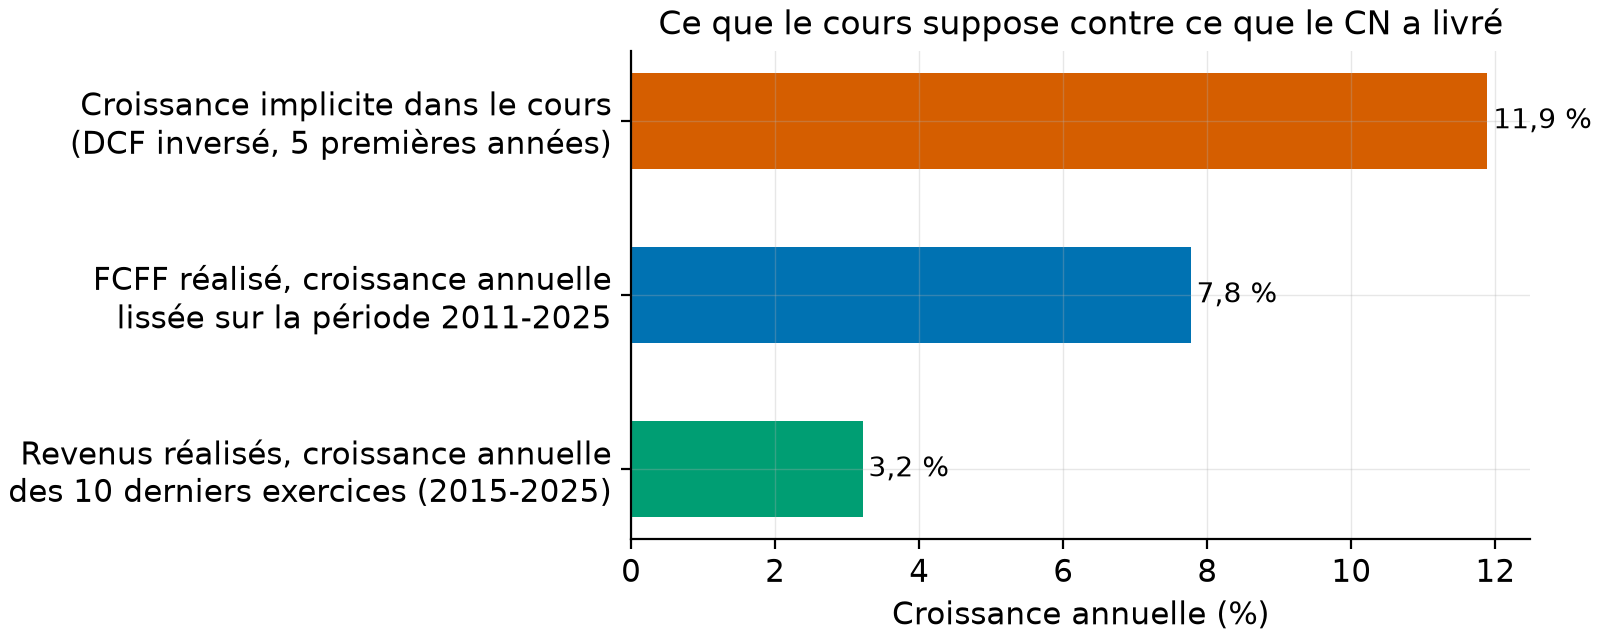
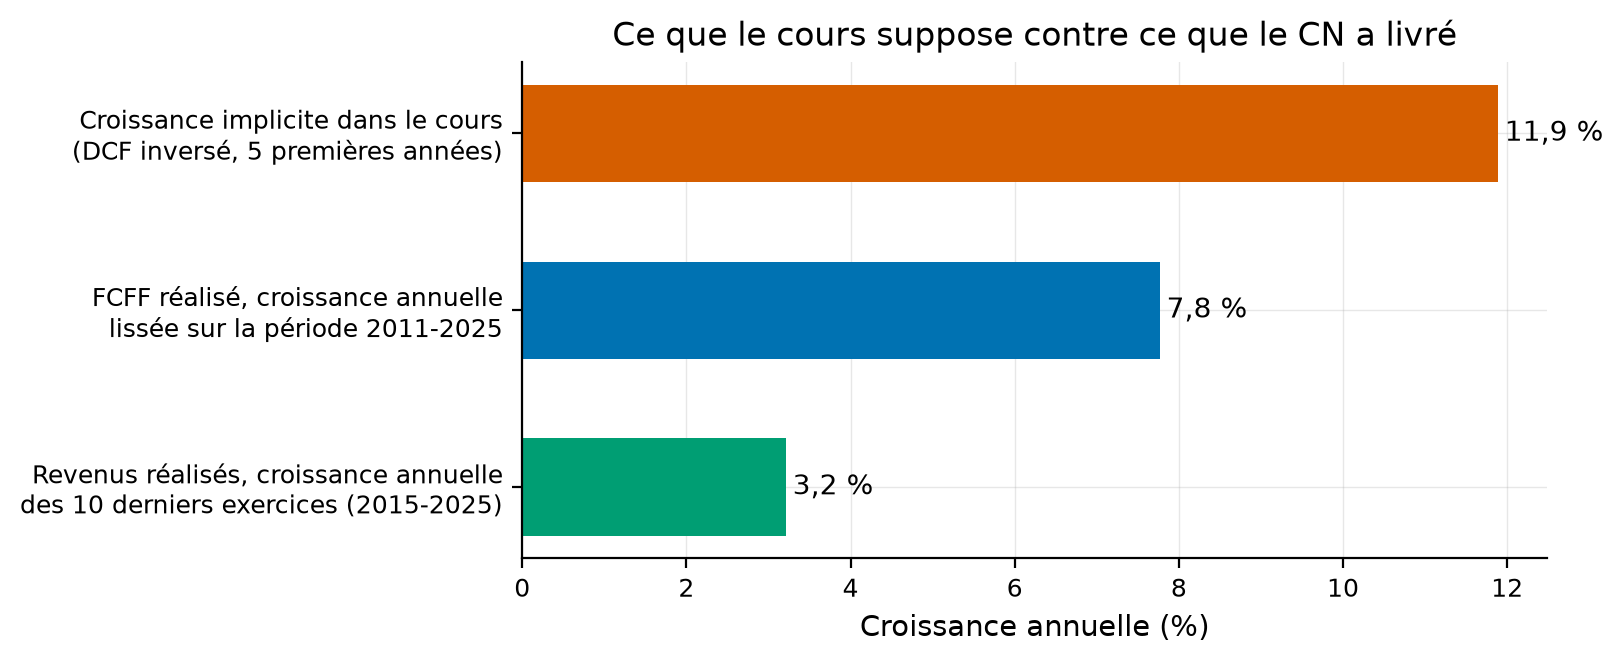
Consommer la feuille de style partagée au lieu de recopier la palette
La palette Okabe-Ito et les réglages de figure étaient recopiés à l'identique dans
chaque dépôt du portefeuille. Une correction de graisse de trait devait donc être faite
une fois par dépôt, et ne l'était jamais.

Le module de figures appelle désormais gv-fintools 0.2.1. Le nom public de la fonction
de réglage ne change pas, si bien qu'aucun appelant n'est touché. Les figures sont
régénérées avec le nouveau style, qui ajoute l'embarquement des polices dans les PDF :
le texte d'une figure reste sélectionnable et cherchable dans le rapport.

diff --git a/src/vlab/report.py b/src/vlab/report.py
@@ -11,25 +11,18 @@ from pathlib import Path
 
 import matplotlib.pyplot as plt
 import pandas as pd
+from gvf.style import OKABE_ITO, appliquer, formateur  # noqa: F401
 
 from vlab.model import Hypotheses, fcff_path
 
-OKABE_ITO = ["#0072B2", "#E69F00", "#009E73", "#D55E00", "#CC79A7", "#56B4E9", "#F0E442", "#000000"]
+# La palette et les réglages viennent de la couche partagée du portefeuille : les mêmes
+# couleurs et la même virgule décimale dans tous les dépôts, corrigées à un seul endroit.
 
 
 def use_style():
-    import matplotlib as mpl
-    from cycler import cycler
-    from matplotlib.ticker import FuncFormatter
-
-    mpl.rcParams.update({
-        "figure.dpi": 200, "savefig.dpi": 200, "figure.constrained_layout.use": True,
-        "font.size": 11, "axes.titlesize": 12, "axes.prop_cycle": cycler(color=OKABE_ITO),
-        "axes.spines.top": False, "axes.spines.right": False,
-        "axes.grid": True, "grid.alpha": 0.3, "grid.linewidth": 0.5,
-        "legend.frameon": False, "lines.linewidth": 1.8,
-    })
-    return FuncFormatter(lambda v, _: f"{v:g}".replace(".", ","))
+    """Les réglages communs, puis le formateur d'axe en français."""
+    appliquer()
+    return formateur()
 
 
 def fig_historique(h: pd.DataFrame, dest: Path) -> None:
